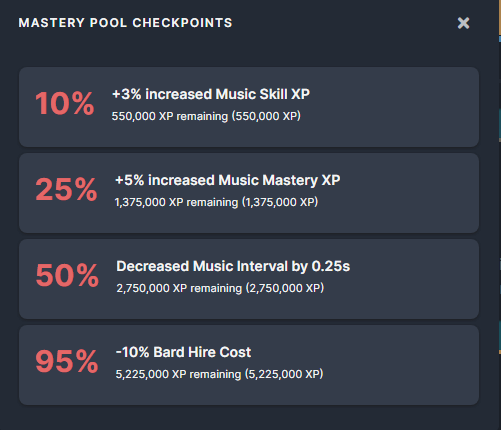
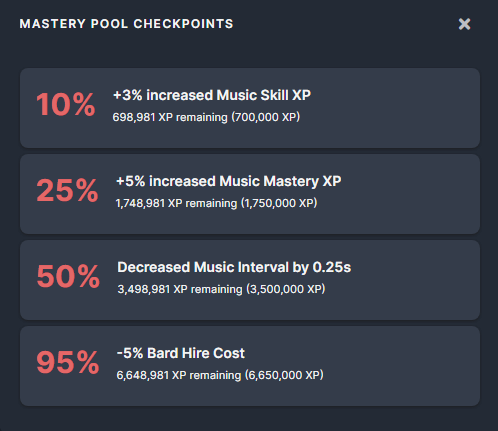
release 1.11.0 - gp cost + modifier balancing

diff --git a/src/app/music/mastery/mastery.ts b/src/app/music/mastery/mastery.ts
@@ -20,6 +20,7 @@ export function MasteryComponent(game: Game, music: Music, instrument: Instrumen
         state: State.View,
         modifier: undefined as BardModifier,
         essenceOfMusic: undefined as EssenceOfMusic,
+        unlockGPCost: 0,
         get unlockableModifiers() {
             const modifiers = music.manager.getModifiers(instrument);
 
@@ -29,7 +30,7 @@ export function MasteryComponent(game: Game, music: Music, instrument: Instrumen
             return music.getMasteryLevel(instrument);
         },
         mounted: function () {
-            this.updateEssenceOfMusic();
+            this.updateCosts();
         },
         isUnlocked: function (index: number) {
             const instrumentRef = music.actions.find(action => action.id === instrument.id);
@@ -43,13 +44,9 @@ export function MasteryComponent(game: Game, music: Music, instrument: Instrumen
             return masteryLevel >= modifier.level;
         },
         getNextHireCost: function () {
-            const hireCostMap = [10000, 100000, 20000000, 200000000];
-            const instrumentRef = music.actions.find(action => action.id === instrument.id);
-            const unlockedMasteries = music.masteriesUnlocked
-                .get(instrumentRef)
-                .filter(isUnlocked => isUnlocked).length;
+            const { costs, unlocked } = music.manager.calculateHireCost(instrument);
 
-            return formatNumber(hireCostMap[unlockedMasteries]);
+            return formatNumber(costs[unlocked]);
         },
         ok: function () {
             SwalLocale.clickConfirm();
@@ -57,9 +54,28 @@ export function MasteryComponent(game: Game, music: Music, instrument: Instrumen
         setState: function (state: State, modifier: BardModifier | undefined) {
             this.state = state;
             this.modifier = modifier;
+
+            if (!this.modifier) {
+                this.unlockGPCost = 100000;
+                return;
+            }
+
+            switch (this.modifier.level) {
+                case 40:
+                default:
+                    this.unlockGPCost = 100000;
+                    break;
+                case 75:
+                    this.unlockGPCost = 1000000;
+                    break;
+                case 99:
+                    this.unlockGPCost = 10000000;
+                    break;
+            }
         },
         unlock: function (modifier: BardModifier) {
             game.bank.removeItemQuantityByID('mythMusic:Essence_Of_Music', 1, true);
+            game.gp.remove(this.unlockGPCost);
 
             const instrumentRef = music.actions.find(action => action.id === instrument.id);
             const index = instrumentRef.modifiers.findIndex(mod => mod.level === modifier.level);
@@ -69,10 +85,10 @@ export function MasteryComponent(game: Game, music: Music, instrument: Instrumen
 
             music.masteriesUnlocked.set(instrumentRef, unlockedMasteries);
 
-            this.updateEssenceOfMusic();
+            this.updateCosts();
             this.completeUpgrade();
         },
-        updateEssenceOfMusic: function () {
+        updateCosts: function () {
             const item = game.items.getObjectByID(`mythMusic:Essence_Of_Music`);
 
             this.essenceOfMusic = {

diff --git a/src/app/music/mastery/mastery.html b/src/app/music/mastery/mastery.html
@@ -50,7 +50,24 @@
                 {{ getLangString('Myth_Music_You_Do_Not_Have_Enough_Materials_Mastery') }}
             </h5>
 
-            <div class="font-size-sm">
+            <div>
+                <small :class="essenceOfMusic.quantity > 0 ? 'text-success' : 'myth-text-grey'">
+                    {{ modifier?.description }}
+                </small>
+            </div>
+
+            <div class="mt-3">
+                <small class="text-danger">
+                    {{ templateLangString('Myth_Music_The_Cost_Of_Hiring', { cost: getNextHireCost() }) }}
+                </small>
+            </div>
+
+            <div class="font-size-sm bg-combat-inner-dark p-2 mt-4">
+                <img class="skill-icon-xs ml-1 mr-1" :src="cdnMedia('assets/media/main/coins.svg')" />
+                <span class="mr-3" :class="game.gp.amount >= unlockGPCost ? 'text-success' : 'text-danger'">
+                    {{ formatNumber(unlockGPCost) }}
+                </span>
+
                 <span :class="essenceOfMusic.quantity > 0 ? 'text-success' : 'text-danger'">1</span>
                 <img class="skill-icon-xs ml-1 mr-1" :src="essenceOfMusic.item.media" />
                 <span :class="essenceOfMusic.quantity > 0 ? 'text-success' : 'text-danger'">
@@ -58,32 +75,12 @@
                 </span>
             </div>
 
-            <div class="mt-1">
-                <small :class="essenceOfMusic.quantity > 0 ? 'text-success' : 'myth-text-grey'">
-                    {{ modifier?.description }}
-                </small>
-            </div>
-
-            <div class="mt-4">
-                <small class="text-danger">
-                    {{ templateLangString('Myth_Music_The_Cost_Of_Hiring', { cost: getNextHireCost() }) }}
-                </small>
-            </div>
-
-            <div class="mt-4 font-size-xs" v-if="essenceOfMusic.quantity > 0">
-                <span>
-                    {{ templateLangString('Myth_Music_You_Have_Quantity', { quantity: essenceOfMusic.quantity }) }}
-                </span>
-                <img class="skill-icon-xs ml-1 mr-1" :src="essenceOfMusic.item.media" />
-                <span>{{ essenceOfMusic.item.name }}</span>
-            </div>
-
             <div class="myth-footer-buttons mt-4">
                 <button
                     type="button"
                     class="btn btn-lg btn-primary mr-2"
                     @click="unlock(modifier)"
-                    v-if="essenceOfMusic.quantity > 0"
+                    v-if="essenceOfMusic.quantity > 0 && game.gp.amount >= unlockGPCost"
                 >
                     {{ getLangString('Myth_Music_Unlock') }}
                 </button>

diff --git a/src/app/music/equipment/equipment.html b/src/app/music/equipment/equipment.html
@@ -78,27 +78,18 @@
                 {{ getLangString('Myth_Music_You_Do_Not_Have_Enough_Materials_Instrument') }}
             </h5>
 
-            <div class="font-size-sm">
-                <span :class="items.Essence_Of_Music.quantity > 0 ? 'text-success' : 'text-danger'">1</span>
-                <img class="skill-icon-xs ml-1 mr-1" :src="items.Essence_Of_Music.item.media" />
-                <span :class="items.Essence_Of_Music.quantity > 0 ? 'text-success' : 'text-danger'">
-                    {{ items.Essence_Of_Music.item.name }}
-                </span>
-            </div>
-
             <div class="mt-1">
                 <small :class="items.Essence_Of_Music.quantity > 0 ? 'text-success' : 'myth-text-grey'">
                     {{ upgradeModifier.description }}
                 </small>
             </div>
 
-            <div class="mt-4 font-size-xs" v-if="items.Essence_Of_Music.quantity > 0">
-                <span>
-                    {{ templateLangString('Myth_Music_You_Have_Quantity', { quantity: items.Essence_Of_Music.quantity })
-                    }}
-                </span>
+            <div class="font-size-sm bg-combat-inner-dark p-2 mt-4">
+                <span :class="items.Essence_Of_Music.quantity > 0 ? 'text-success' : 'text-danger'">1</span>
                 <img class="skill-icon-xs ml-1 mr-1" :src="items.Essence_Of_Music.item.media" />
-                <span>{{ items.Essence_Of_Music.item.name }}</span>
+                <span :class="items.Essence_Of_Music.quantity > 0 ? 'text-success' : 'text-danger'">
+                    {{ items.Essence_Of_Music.item.name }}
+                </span>
             </div>
 
             <div class="myth-footer-buttons mt-4">

diff --git a/src/app/language/russian.ts b/src/app/language/russian.ts
@@ -123,12 +123,12 @@ export const ru = {
     MASTERY_BONUS_Music_1: 'Первый модификатор при найме.',
     MASTERY_BONUS_Music_2: 'Возможность разблокировать второй модификатор при найме.',
     MASTERY_BONUS_Music_3: 'Возможность разблокировать третий модификатор при найме.',
-    MASTERY_BONUS_Music_4: '-10% стоимость найма барда только для этого инструмента.',
+    MASTERY_BONUS_Music_4: '-5% стоимость найма барда только для этого инструмента.',
     MASTERY_BONUS_Music_5: 'Возможность разблокировать четвертый модификатор при найме.',
     MASTERY_CHECKPOINT_Music_0: '+3% увеличенный XP музыки',
     MASTERY_CHECKPOINT_Music_1: '+5% увеличенный XP мастерства музыки',
     MASTERY_CHECKPOINT_Music_2: 'Сокращен интервал музыки на 0,25 секунды.',
-    MASTERY_CHECKPOINT_Music_3: '-10% стоимость найма барда',
+    MASTERY_CHECKPOINT_Music_3: '-5% стоимость найма барда',
     POTION_NAME_Generous_Gratuity_Potion: 'Зелье щедрой чаевой',
     SHOP_NAME_Band_Practice: 'Репетиция группы',
     SHOP_DESCRIPTION_Band_Practice: 'Разблокировка возможности нанимать 2 разных барда в музыке.',

diff --git a/src/app/language/spanish.ts b/src/app/language/spanish.ts
@@ -121,12 +121,12 @@ export const es = {
     MASTERY_BONUS_Music_1: 'Primer modificador de contratación.',
     MASTERY_BONUS_Music_2: 'Habilidad para desbloquear el segundo modificador de contratación.',
     MASTERY_BONUS_Music_3: 'Habilidad para desbloquear el tercer modificador de contratación.',
-    MASTERY_BONUS_Music_4: '-10% de Costo de Contratación de Bardos solo para este instrumento.',
+    MASTERY_BONUS_Music_4: '-5% de Costo de Contratación de Bardos solo para este instrumento.',
     MASTERY_BONUS_Music_5: 'Habilidad para desbloquear el cuarto modificador de contratación.',
     MASTERY_CHECKPOINT_Music_0: '+3% de aumento de XP de Habilidad de Música',
     MASTERY_CHECKPOINT_Music_1: '+5% de aumento de XP de Maestría de Música',
     MASTERY_CHECKPOINT_Music_2: 'Intervalo de Música disminuido en 0.25 segundos',
-    MASTERY_CHECKPOINT_Music_3: '-10% de Costo de Contratación de Bardos',
+    MASTERY_CHECKPOINT_Music_3: '-5% de Costo de Contratación de Bardos',
     POTION_NAME_Generous_Gratuity_Potion: 'Poción Generosa de Propina',
     SHOP_NAME_Band_Practice: 'Práctica de Banda',
     SHOP_DESCRIPTION_Band_Practice: 'Desbloquea la habilidad de contratar a 2 bardos diferentes en Música.',

diff --git a/src/app/language/portuguese-brasil.ts b/src/app/language/portuguese-brasil.ts
@@ -122,12 +122,12 @@ export const ptBR = {
     MASTERY_BONUS_Music_1: 'Primeiro modificador de contratação.',
     MASTERY_BONUS_Music_2: 'Habilidade de destravar o segundo modificador de contratação.',
     MASTERY_BONUS_Music_3: 'Habilidade de destravar o terceiro modificador de contratação.',
-    MASTERY_BONUS_Music_4: '-10% de Custo de Contratação de Bardo apenas para este instrumento.',
+    MASTERY_BONUS_Music_4: '-5% de Custo de Contratação de Bardo apenas para este instrumento.',
     MASTERY_BONUS_Music_5: 'Habilidade de destravar o quarto modificador de contratação.',
     MASTERY_CHECKPOINT_Music_0: '+3% de XP de Habilidade de Música aumentada',
     MASTERY_CHECKPOINT_Music_1: '+5% de XP de Mestre de Música aumentada',
     MASTERY_CHECKPOINT_Music_2: 'Intervalo de Música reduzido em 0.25s',
-    MASTERY_CHECKPOINT_Music_3: '-10% de Custo de Contratação de Bardo',
+    MASTERY_CHECKPOINT_Music_3: '-5% de Custo de Contratação de Bardo',
     POTION_NAME_Generous_Gratuity_Potion: 'Poção de Gratificação Generosa',
     SHOP_NAME_Band_Practice: 'Prática de Banda',
     SHOP_DESCRIPTION_Band_Practice: 'Destrave a habilidade de contratar 2 bardos diferentes em Música.',

diff --git a/src/app/language/portuguese.ts b/src/app/language/portuguese.ts
@@ -121,12 +121,12 @@ export const pt = {
     MASTERY_BONUS_Music_1: 'Primeiro modificador de contratação.',
     MASTERY_BONUS_Music_2: 'Habilidade para desbloquear o segundo modificador de contratação.',
     MASTERY_BONUS_Music_3: 'Habilidade para desbloquear o terceiro modificador de contratação.',
-    MASTERY_BONUS_Music_4: '-10% Custo de Contratação de Bardo apenas para este instrumento.',
+    MASTERY_BONUS_Music_4: '-5% Custo de Contratação de Bardo apenas para este instrumento.',
     MASTERY_BONUS_Music_5: 'Habilidade para desbloquear o quarto modificador de contratação.',
     MASTERY_CHECKPOINT_Music_0: '+3% XP de Habilidade de Música aumentado',
     MASTERY_CHECKPOINT_Music_1: '+5% XP de Mestria de Música aumentado',
     MASTERY_CHECKPOINT_Music_2: 'Intervalo de Música diminuído em 0.25s',
-    MASTERY_CHECKPOINT_Music_3: '-10% Custo de Contratação de Bardo',
+    MASTERY_CHECKPOINT_Music_3: '-5% Custo de Contratação de Bardo',
     POTION_NAME_Generous_Gratuity_Potion: 'Poção Generosa de Gratificação',
     SHOP_NAME_Band_Practice: 'Prática de Banda',
     SHOP_DESCRIPTION_Band_Practice: 'Destrava a habilidade de contratar 2 bardos diferentes em Música.',

diff --git a/src/app/language/japanese.ts b/src/app/language/japanese.ts
@@ -116,12 +116,12 @@ export const ja = {
     MASTERY_BONUS_Music_1: '最初の雇用修飾子。',
     MASTERY_BONUS_Music_2: '2つ目の雇用修飾子の解除が可能になります。',
     MASTERY_BONUS_Music_3: '3つ目の雇用修飾子の解除が可能になります。',
-    MASTERY_BONUS_Music_4: 'この楽器のバード雇用コストが-10%されます。',
+    MASTERY_BONUS_Music_4: 'この楽器のバード雇用コストが-5%されます。',
     MASTERY_BONUS_Music_5: '4つ目の雇用修飾子の解除が可能になります。',
     MASTERY_CHECKPOINT_Music_0: '+3% 音楽スキルXP増加',
     MASTERY_CHECKPOINT_Music_1: '+5% 音楽マスタリーXP増加',
     MASTERY_CHECKPOINT_Music_2: '音楽のインターバルが0.25秒減少します。',
-    MASTERY_CHECKPOINT_Music_3: 'バードの雇用コストが-10%されます。',
+    MASTERY_CHECKPOINT_Music_3: 'バードの雇用コストが-5%されます。',
     POTION_NAME_Generous_Gratuity_Potion: '気前の良い謝礼ポーション',
     SHOP_NAME_Band_Practice: 'バンドの練習',
     SHOP_DESCRIPTION_Band_Practice: '音楽の2人のバードを雇用する能力をアンロックします。',

diff --git a/src/app/language/korean.ts b/src/app/language/korean.ts
@@ -114,12 +114,12 @@ export const ko = {
     MASTERY_BONUS_Music_1: '첫 번째 고용 수정자입니다.',
     MASTERY_BONUS_Music_2: '두 번째 고용 수정자를 잠금 해제할 수 있습니다.',
     MASTERY_BONUS_Music_3: '세 번째 고용 수정자를 잠금 해제할 수 있습니다.',
-    MASTERY_BONUS_Music_4: '이 악기의 바드 고용 비용이 -10% 부여됩니다.',
+    MASTERY_BONUS_Music_4: '이 악기의 바드 고용 비용이 -5% 부여됩니다.',
     MASTERY_BONUS_Music_5: '네 번째 고용 수정자를 잠금 해제할 수 있습니다.',
     MASTERY_CHECKPOINT_Music_0: '+3% 음악 스킬 XP 증가',
     MASTERY_CHECKPOINT_Music_1: '+5% 음악 전문 기술 XP 증가',
     MASTERY_CHECKPOINT_Music_2: '음악 간격이 0.25초 감소합니다.',
-    MASTERY_CHECKPOINT_Music_3: '바드 고용 비용이 -10% 부여됩니다.',
+    MASTERY_CHECKPOINT_Music_3: '바드 고용 비용이 -5% 부여됩니다.',
     POTION_NAME_Generous_Gratuity_Potion: '관대한 선물 물약',
     SHOP_NAME_Band_Practice: '밴드 연습',
     SHOP_DESCRIPTION_Band_Practice: '음악에서 2명의 다른 바드를 고용할 수 있는 능력을 잠금 해제합니다.',

diff --git a/src/app/language/french.ts b/src/app/language/french.ts
@@ -123,12 +123,12 @@ export const fr = {
     MASTERY_BONUS_Music_1: "Premier modificateur d'embauche.",
     MASTERY_BONUS_Music_2: "Capacité de débloquer le deuxième modificateur d'embauche.",
     MASTERY_BONUS_Music_3: "Capacité de débloquer le troisième modificateur d'embauche.",
-    MASTERY_BONUS_Music_4: "-10% de coût d'embauche de barde pour cet instrument uniquement.",
+    MASTERY_BONUS_Music_4: "-5% de coût d'embauche de barde pour cet instrument uniquement.",
     MASTERY_BONUS_Music_5: "Capacité de débloquer le quatrième modificateur d'embauche.",
     MASTERY_CHECKPOINT_Music_0: "+3% d'XP de Compétence Musique",
     MASTERY_CHECKPOINT_Music_1: "+5% d'XP de Maîtrise Musique",
     MASTERY_CHECKPOINT_Music_2: 'Intervalle de Musique réduit de 0.25s',
-    MASTERY_CHECKPOINT_Music_3: "-10% de coût d'embauche de barde",
+    MASTERY_CHECKPOINT_Music_3: "-5% de coût d'embauche de barde",
     POTION_NAME_Generous_Gratuity_Potion: 'Potion de Généreuse Gratitude',
     SHOP_NAME_Band_Practice: 'Pratique de groupe',
     SHOP_DESCRIPTION_Band_Practice: "Débloquez la possibilité d'embaucher 2 bardes différents en Musique.",

diff --git a/src/app/language/italian.ts b/src/app/language/italian.ts
@@ -123,12 +123,12 @@ export const it = {
     MASTERY_BONUS_Music_1: 'Primo modificatore di assunzione.',
     MASTERY_BONUS_Music_2: 'Abilità di sbloccare il secondo modificatore di assunzione.',
     MASTERY_BONUS_Music_3: 'Abilità di sbloccare il terzo modificatore di assunzione.',
-    MASTERY_BONUS_Music_4: '-10% di costo di assunzione dei bardi solo per questo strumento.',
+    MASTERY_BONUS_Music_4: '-5% di costo di assunzione dei bardi solo per questo strumento.',
     MASTERY_BONUS_Music_5: 'Abilità di sbloccare il quarto modificatore di assunzione.',
     MASTERY_CHECKPOINT_Music_0: '+3% di XP Skill Musica aumentata',
     MASTERY_CHECKPOINT_Music_1: '+5% di XP Maestria Musica aumentata',
     MASTERY_CHECKPOINT_Music_2: 'Intervallo Musica ridotto di 0,25 secondi',
-    MASTERY_CHECKPOINT_Music_3: '-10% di costo di assunzione dei bardi',
+    MASTERY_CHECKPOINT_Music_3: '-5% di costo di assunzione dei bardi',
     POTION_NAME_Generous_Gratuity_Potion: 'Pozione di Generosa Gratitudine',
     SHOP_NAME_Band_Practice: 'Esercitazione Band',
     SHOP_DESCRIPTION_Band_Practice: 'Sblocca la capacità di assumere 2 diversi bardi in Musica.',

diff --git a/src/app/language/turkish.ts b/src/app/language/turkish.ts
@@ -118,12 +118,12 @@ export const tr = {
     MASTERY_BONUS_Music_1: 'İlk işe alma değiştiricisi.',
     MASTERY_BONUS_Music_2: 'İkinci işe alma değiştiricisini açma yeteneği.',
     MASTERY_BONUS_Music_3: 'Üçüncü işe alma değiştiricisini açma yeteneği.',
-    MASTERY_BONUS_Music_4: 'Sadece bu enstrüman için -%10 Bard İşe Alma Maliyeti.',
+    MASTERY_BONUS_Music_4: 'Sadece bu enstrüman için -%5 Bard İşe Alma Maliyeti.',
     MASTERY_BONUS_Music_5: 'Dördüncü işe alma değiştiricisini açma yeteneği.',
     MASTERY_CHECKPOINT_Music_0: '+%3 artırılmış Müzik Beceri XP',
     MASTERY_CHECKPOINT_Music_1: '+%5 artırılmış Müzik Ustalık XP',
     MASTERY_CHECKPOINT_Music_2: 'Müzik Aralığını 0.25 saniye azaltır',
-    MASTERY_CHECKPOINT_Music_3: '-%10 Bard İşe Alma Maliyeti',
+    MASTERY_CHECKPOINT_Music_3: '-%5 Bard İşe Alma Maliyeti',
     POTION_NAME_Generous_Gratuity_Potion: 'Cömert Bahşiş İksiri',
     SHOP_NAME_Band_Practice: 'Grup Çalışması',
     SHOP_DESCRIPTION_Band_Practice: 'Müzikte 2 farklı bardi işe alma yeteneğini açar.',
